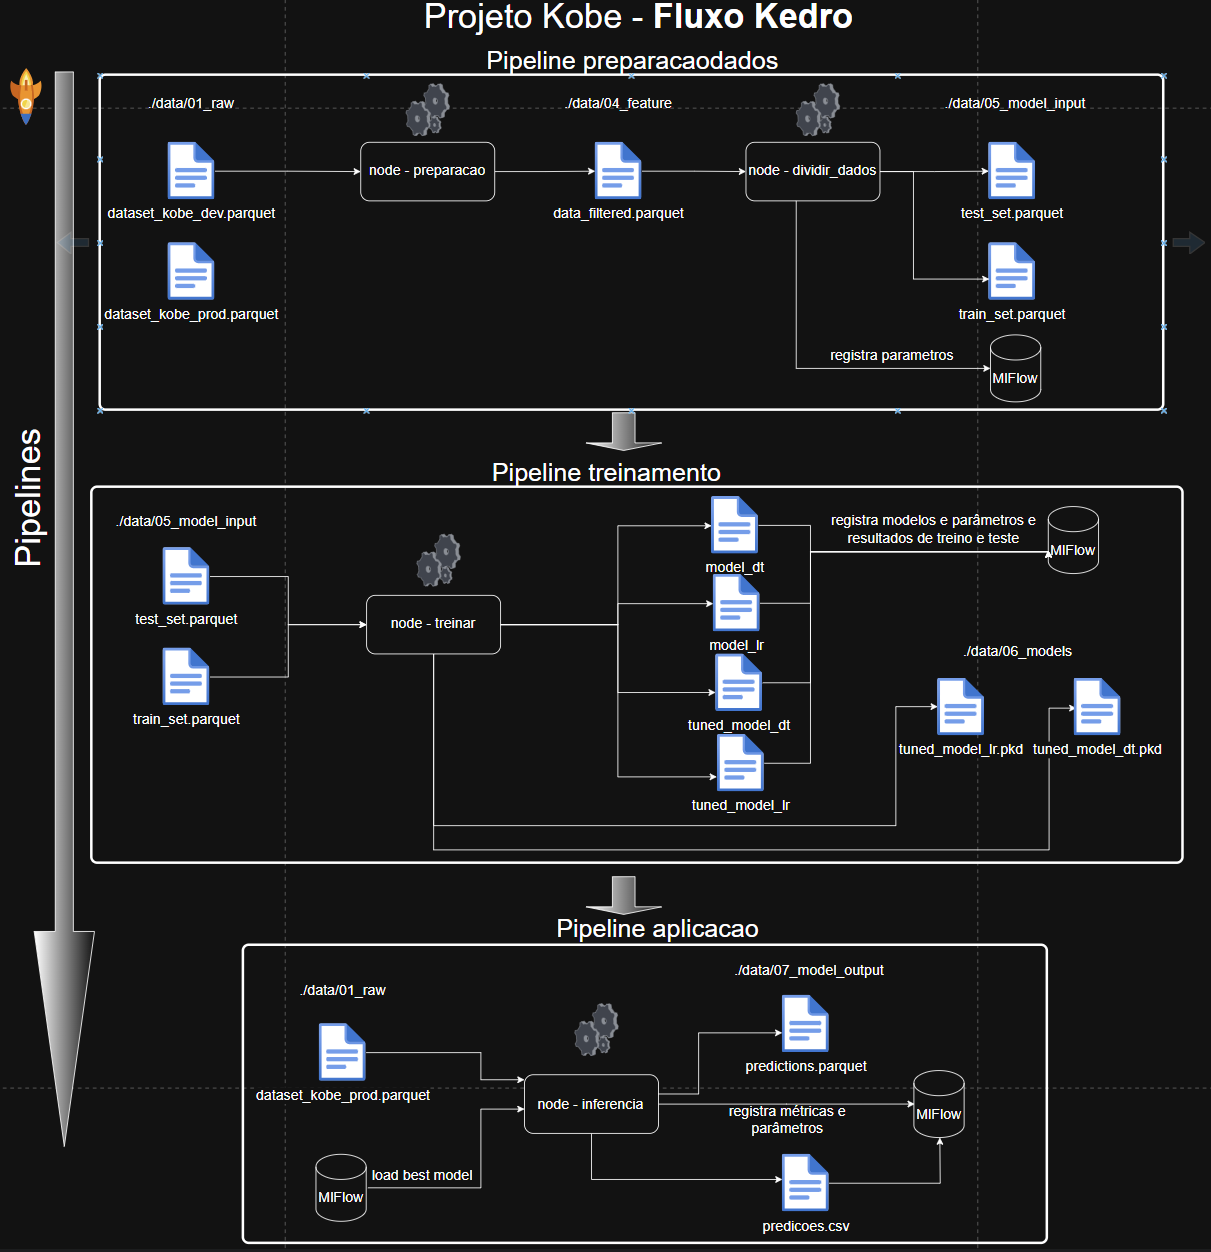
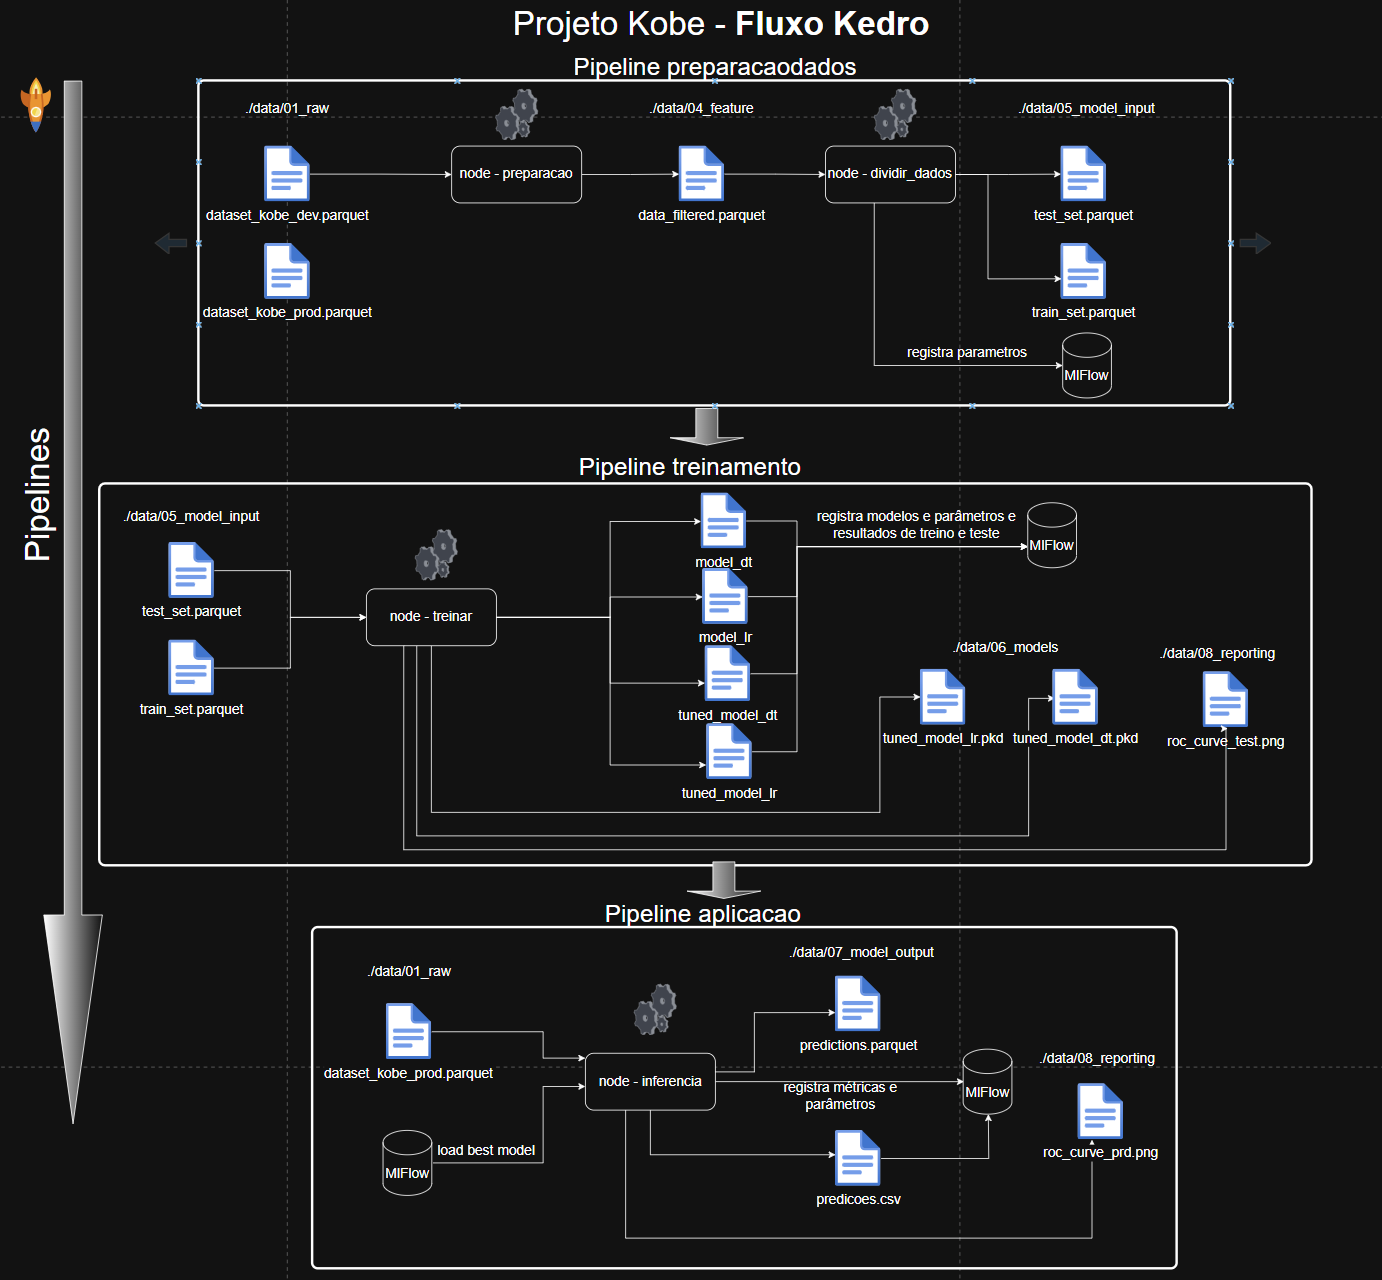
gerançao de plot curva roc automatizado, atualizaçao do diagrama e readme

diff --git a/src/kobe/pipelines/aplicacao/nodes.py b/src/kobe/pipelines/aplicacao/nodes.py
@@ -5,40 +5,42 @@ generated using Kedro 0.19.12
 import pandas as pd
 import mlflow.pyfunc
 import mlflow.sklearn
-from sklearn.metrics import accuracy_score, f1_score, log_loss
+from sklearn.metrics import accuracy_score, f1_score, log_loss,roc_curve, auc
+import matplotlib.pyplot as plt
 from datetime import date
 import joblib
 
-
-# Receber a base de teste para gerar o log_loss
-#
 def inferencia(raw_prod):
-    print("######################## Estou rodando agora ##############")
+    #Preparando os dados e subindo o modelo do mlflow
     raw_data = raw_prod.dropna()
     prod = raw_data[['lat','lon','minutes_remaining','period','playoffs','shot_distance']]
-    #model_uri = "runs://uns:/4fc7f9e665f84f838e62031857300561/model"  #antiga
     model_uri = 'runs:/c37b973232204389932db377de875f41/model' #nova Decision Tree Classifier
-    #model_uri = 'runs:/8c0fa7643cdd4682a29a14bac5f43a67/model' #nova Logistic Regression 
-    
-
     loaded_model = mlflow.pyfunc.load_model(model_uri)
     test_data = prod
+
+    #Fazendo prediçoes e tranformando resultado em DF
     predictions = loaded_model.predict(test_data)
     predictions = pd.DataFrame(predictions, columns=["previsao"])
     
-    print("######################## INICIO Log loss ##############")
+    #calculando log loss
     loaded_model = mlflow.sklearn.load_model(model_uri)
     pred_probs = loaded_model.predict_proba(test_data)[:, 1]
-    
     y_true = raw_data['shot_made_flag']
     logloss = log_loss(y_true, pred_probs)
     f1 = f1_score(y_true, predictions["previsao"])
-   
-    print("######################## Termino Log loss ##############")
-    
 
+    #Gerando curva ROC
+    fpr, tpr, _ = roc_curve(y_true, pred_probs)
+    roc_curve_prd = plt.figure()
+    plt.plot(fpr, tpr, label=f'AUC = {auc(fpr, tpr):.2f}')
+    plt.plot([0, 1], [0, 1], 'k--')
+    plt.xlabel('FPR')
+    plt.ylabel('TPR')
+    plt.title('Curva ROC')
+    plt.legend()
     
-    # Tenta obter experimento, senão cria
+    
+    # Tenta obter experimento, senão cria uma novo.
     experiment_name = "AplicacaoDados"
     experiment = mlflow.get_experiment_by_name(experiment_name)
     
@@ -47,27 +49,26 @@ def inferencia(raw_prod):
     else:
         experiment_id = experiment.experiment_id
 
-    
-    # Log de parâmetros e métricas no MLflow
+    # Logando os parâmetros e métricas no MLflow
     with mlflow.start_run(run_name=f"PipelineAplicacao_{date.today().strftime('%Y-%m-%d')}",experiment_id=experiment_id,nested=True):
 
          # Log de parâmetros
         mlflow.log_param("modelo_usado", model_uri)
-        
         joblib.dump(loaded_model, "modelo_aplicacao.pkl")
         mlflow.log_artifact("modelo_aplicacao.pkl", artifact_path="model")
-        
         mlflow.log_param("num_amostras", len(prod))
         mlflow.log_param("colunas_usadas", list(prod.columns))
         mlflow.log_param("missing_dropped", raw_prod.isna().sum().sum())
+
         # Log de métricas simples
         mlflow.log_metric("Log Loss", logloss)
         mlflow.log_metric("F1 Score", f1)
         mlflow.log_metric("media_previsao", predictions["previsao"].mean())
         mlflow.log_metric("classe_1", (predictions["previsao"] == 1).sum())
         mlflow.log_metric("classe_0", (predictions["previsao"] == 0).sum())
+
         # Log de artefato
         predictions.to_csv("predicoes.csv", index=False)
         mlflow.log_artifact("predicoes.csv")
 
-    return predictions
+    return predictions,roc_curve_prd

diff --git a/src/kobe/pipelines/treinamento/nodes.py b/src/kobe/pipelines/treinamento/nodes.py
@@ -3,14 +3,13 @@ This is a boilerplate pipeline 'treinamento'
 generated using Kedro 0.19.12
 """
 import mlflow
-import mlflow.sklearn
 from pycaret.classification import ClassificationExperiment
 from mlflow.tracking import MlflowClient
 import pandas as pd
 from datetime import date
 import joblib
-from sklearn.metrics import accuracy_score, f1_score, log_loss
-
+from sklearn.metrics import accuracy_score, f1_score, log_loss , roc_curve, auc
+import matplotlib.pyplot as plt
 
 def treinar(train_set,test_set,session_id):
     
@@ -29,11 +28,11 @@ def treinar(train_set,test_set,session_id):
     model_dt = exp.create_model('dt')            
     # Treinamento do Logistic Regression
     model_lr = exp.create_model('lr')
-    #Tunando os modelo
+    #Tunando os modelos
     tuned_model_dt = exp.tune_model(model_dt, n_iter=100, optimize='AUC')
     tuned_model_lr = exp.tune_model(model_lr, n_iter=100, optimize='AUC')
 
-       # Testes
+    # Preparando dados e fazendo inferencia de teste nos modelos
     data = test_set.dropna()
     X = data[['lat','lon','minutes_remaining','period','playoffs','shot_distance']]
     y = data['shot_made_flag']
@@ -44,7 +43,7 @@ def treinar(train_set,test_set,session_id):
     preds_lr = tuned_model_lr.predict(X)
     probas_lr = tuned_model_lr.predict_proba(X)[:, 1]
 
-    #mlflow.set_experiment("Treinamento")
+    
     with mlflow.start_run(run_name=f"Teste_modelos_{date.today().strftime('%Y-%m-%d')}",nested=True):
     # Logando métricas no mesmo run
         mlflow.log_metric("dt_accuracy", accuracy_score(y, preds_dt))
@@ -57,5 +56,17 @@ def treinar(train_set,test_set,session_id):
 
     print("Métricas logadas no MLflow com sucesso.")
 
-    return tuned_model_dt, tuned_model_lr
+    #Gerando curva ROC
+    fpr, tpr, _ = roc_curve(y, preds_lr)
+    roc_curve_test = plt.figure()
+    plt.plot(fpr, tpr, label=f'AUC = {auc(fpr, tpr):.2f}')
+    plt.plot([0, 1], [0, 1], 'k--')
+    plt.xlabel('FPR')
+    plt.ylabel('TPR')
+    plt.title('Curva ROC')
+    plt.legend()
+    
+
+
+    return tuned_model_dt, tuned_model_lr ,roc_curve_test
 

diff --git a/src/kobe/pipelines/preparacaodados/nodes.py b/src/kobe/pipelines/preparacaodados/nodes.py
@@ -20,12 +20,8 @@ def dividir_dados(data_filtered):
     if mlflow.active_run():
        mlflow.end_run()
     
-    
     train_set, test_set = train_test_split(data_filtered,test_size=0.2, random_state = 10,stratify=data_filtered['shot_made_flag'])
     
-    #mlflow.set_experiment("PreparacaoDados")
-    
-    # Cria nome com data
     run_name = f"PreparacaoDados_{date.today().strftime('%Y-%m-%d')}"
     
     # Log de parâmetros e métricas no MLflow

diff --git a/src/kobe/pipelines/treinamento/pipeline.py b/src/kobe/pipelines/treinamento/pipeline.py
@@ -11,7 +11,7 @@ def create_pipeline(**kwargs) -> Pipeline:
         node(
             func=nodes.treinar,
             inputs=["train_set","test_set", "params:session_id"],
-            outputs=["tuned_model_dt" ,"tuned_model_lr"],
+            outputs=["tuned_model_dt" ,"tuned_model_lr","roc_curve_test"],
             tags=["train"]
         )
 

diff --git a/src/kobe/pipelines/aplicacao/pipeline.py b/src/kobe/pipelines/aplicacao/pipeline.py
@@ -12,7 +12,7 @@ def create_pipeline(**kwargs) -> Pipeline:
         node(
             nodes.inferencia,
             inputs=['raw_prod'],
-            outputs="predictions",
+            outputs=["predictions","roc_curve_prd"],
             tags=['inferencia']
         )
     ])

diff --git a/README.md b/README.md
@@ -147,41 +147,13 @@ Abaixo a combinação de prints extraídos dos registros do MLFlow:
 ![streamlit1dt](docs/streamlit1dt.png)
 ![streamlit2dt](docs/streamlit2dt.png)
 
-
-
-
-
-
-
-
-
-
-
-
-
-## Overview
-
-This is your new Kedro project, which was generated using `kedro 0.19.12`.
-
-exemplo de sintaxe de MD [Kedro documentation](https://docs.kedro.org) to get started.
-
-### JupyterLab
-## Project dependencies
-
-
-```
-Exmplo de marcaçao MD kedro jupyter notebook
-```
-
 ### Como executar o projeto Ajudar essa respostas
+
 1-kedro run
-2-subir o modelo
-3-moninotar via mlflow
-4-Visualizar o front-end
-streamlit> streamlit run app.py
+2-mlflow ui
+3-mlflow models serve --model-uri models:/runs:/c37b973232204389932db377de875f41/model/1 --env-manager=local --port 5001
+4-..\streamlit> streamlit run app.py
 
-
-mlflow models serve --model-uri models:/runs:/c37b973232204389932db377de875f41/model/1 --env-manager=local --port 5001
 
 
 
